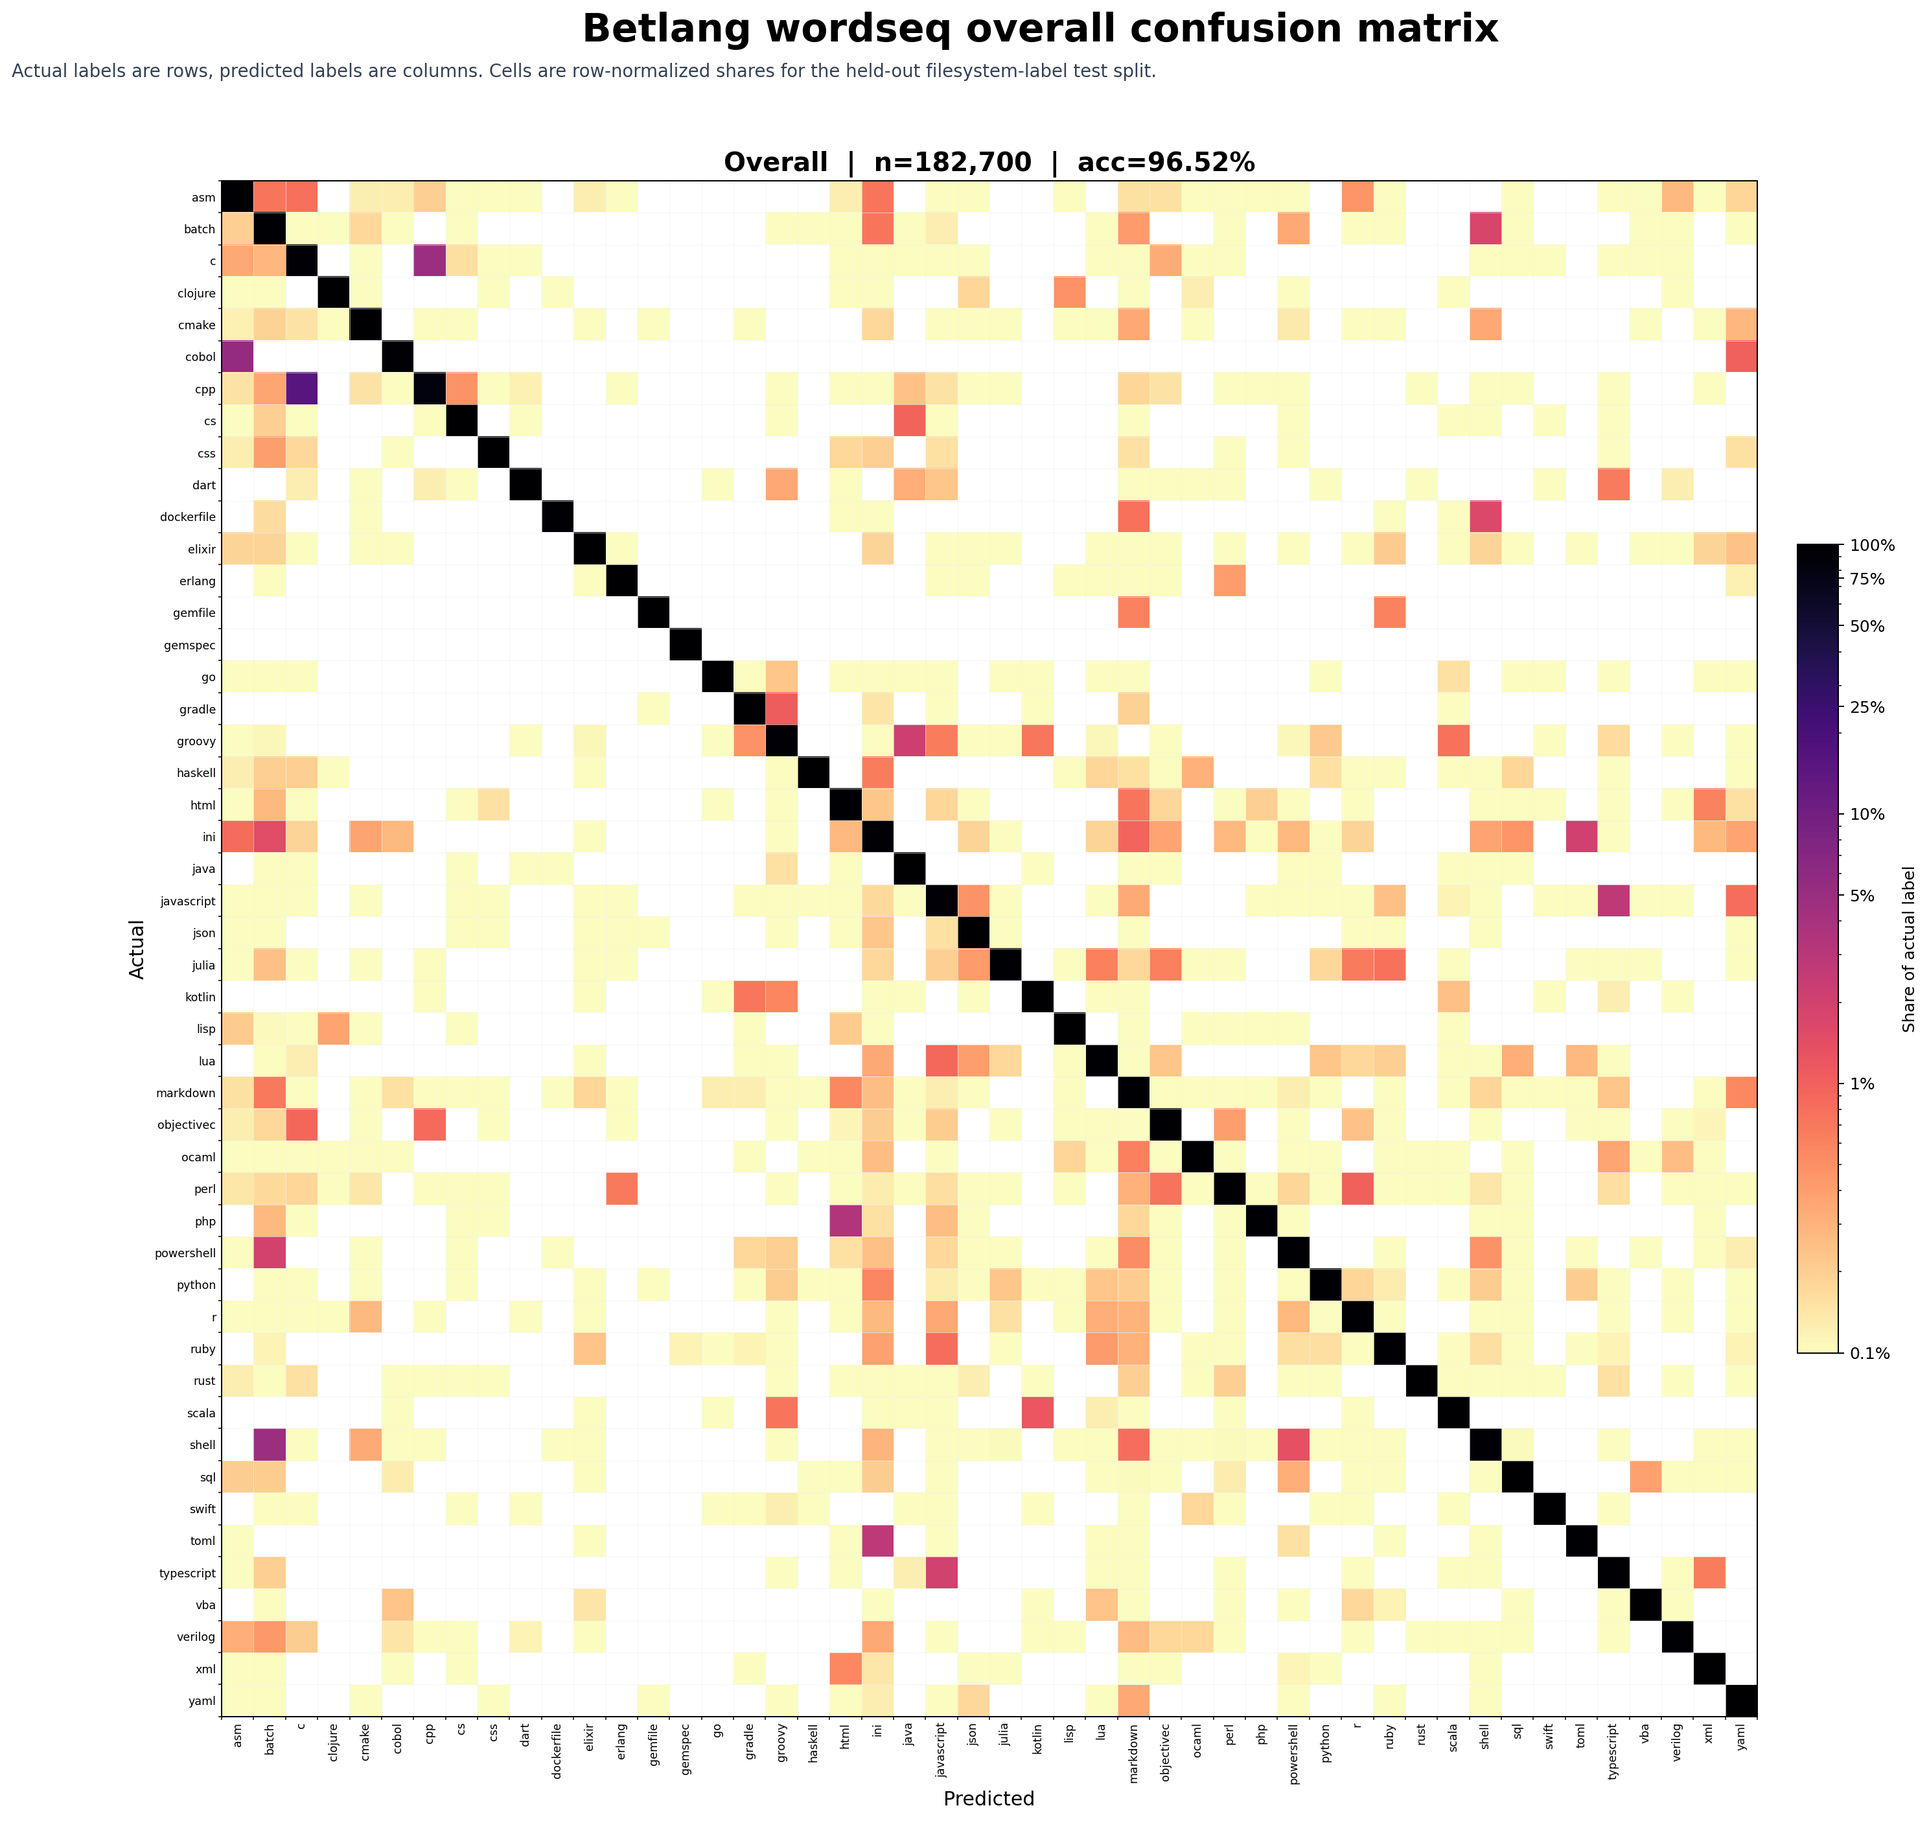
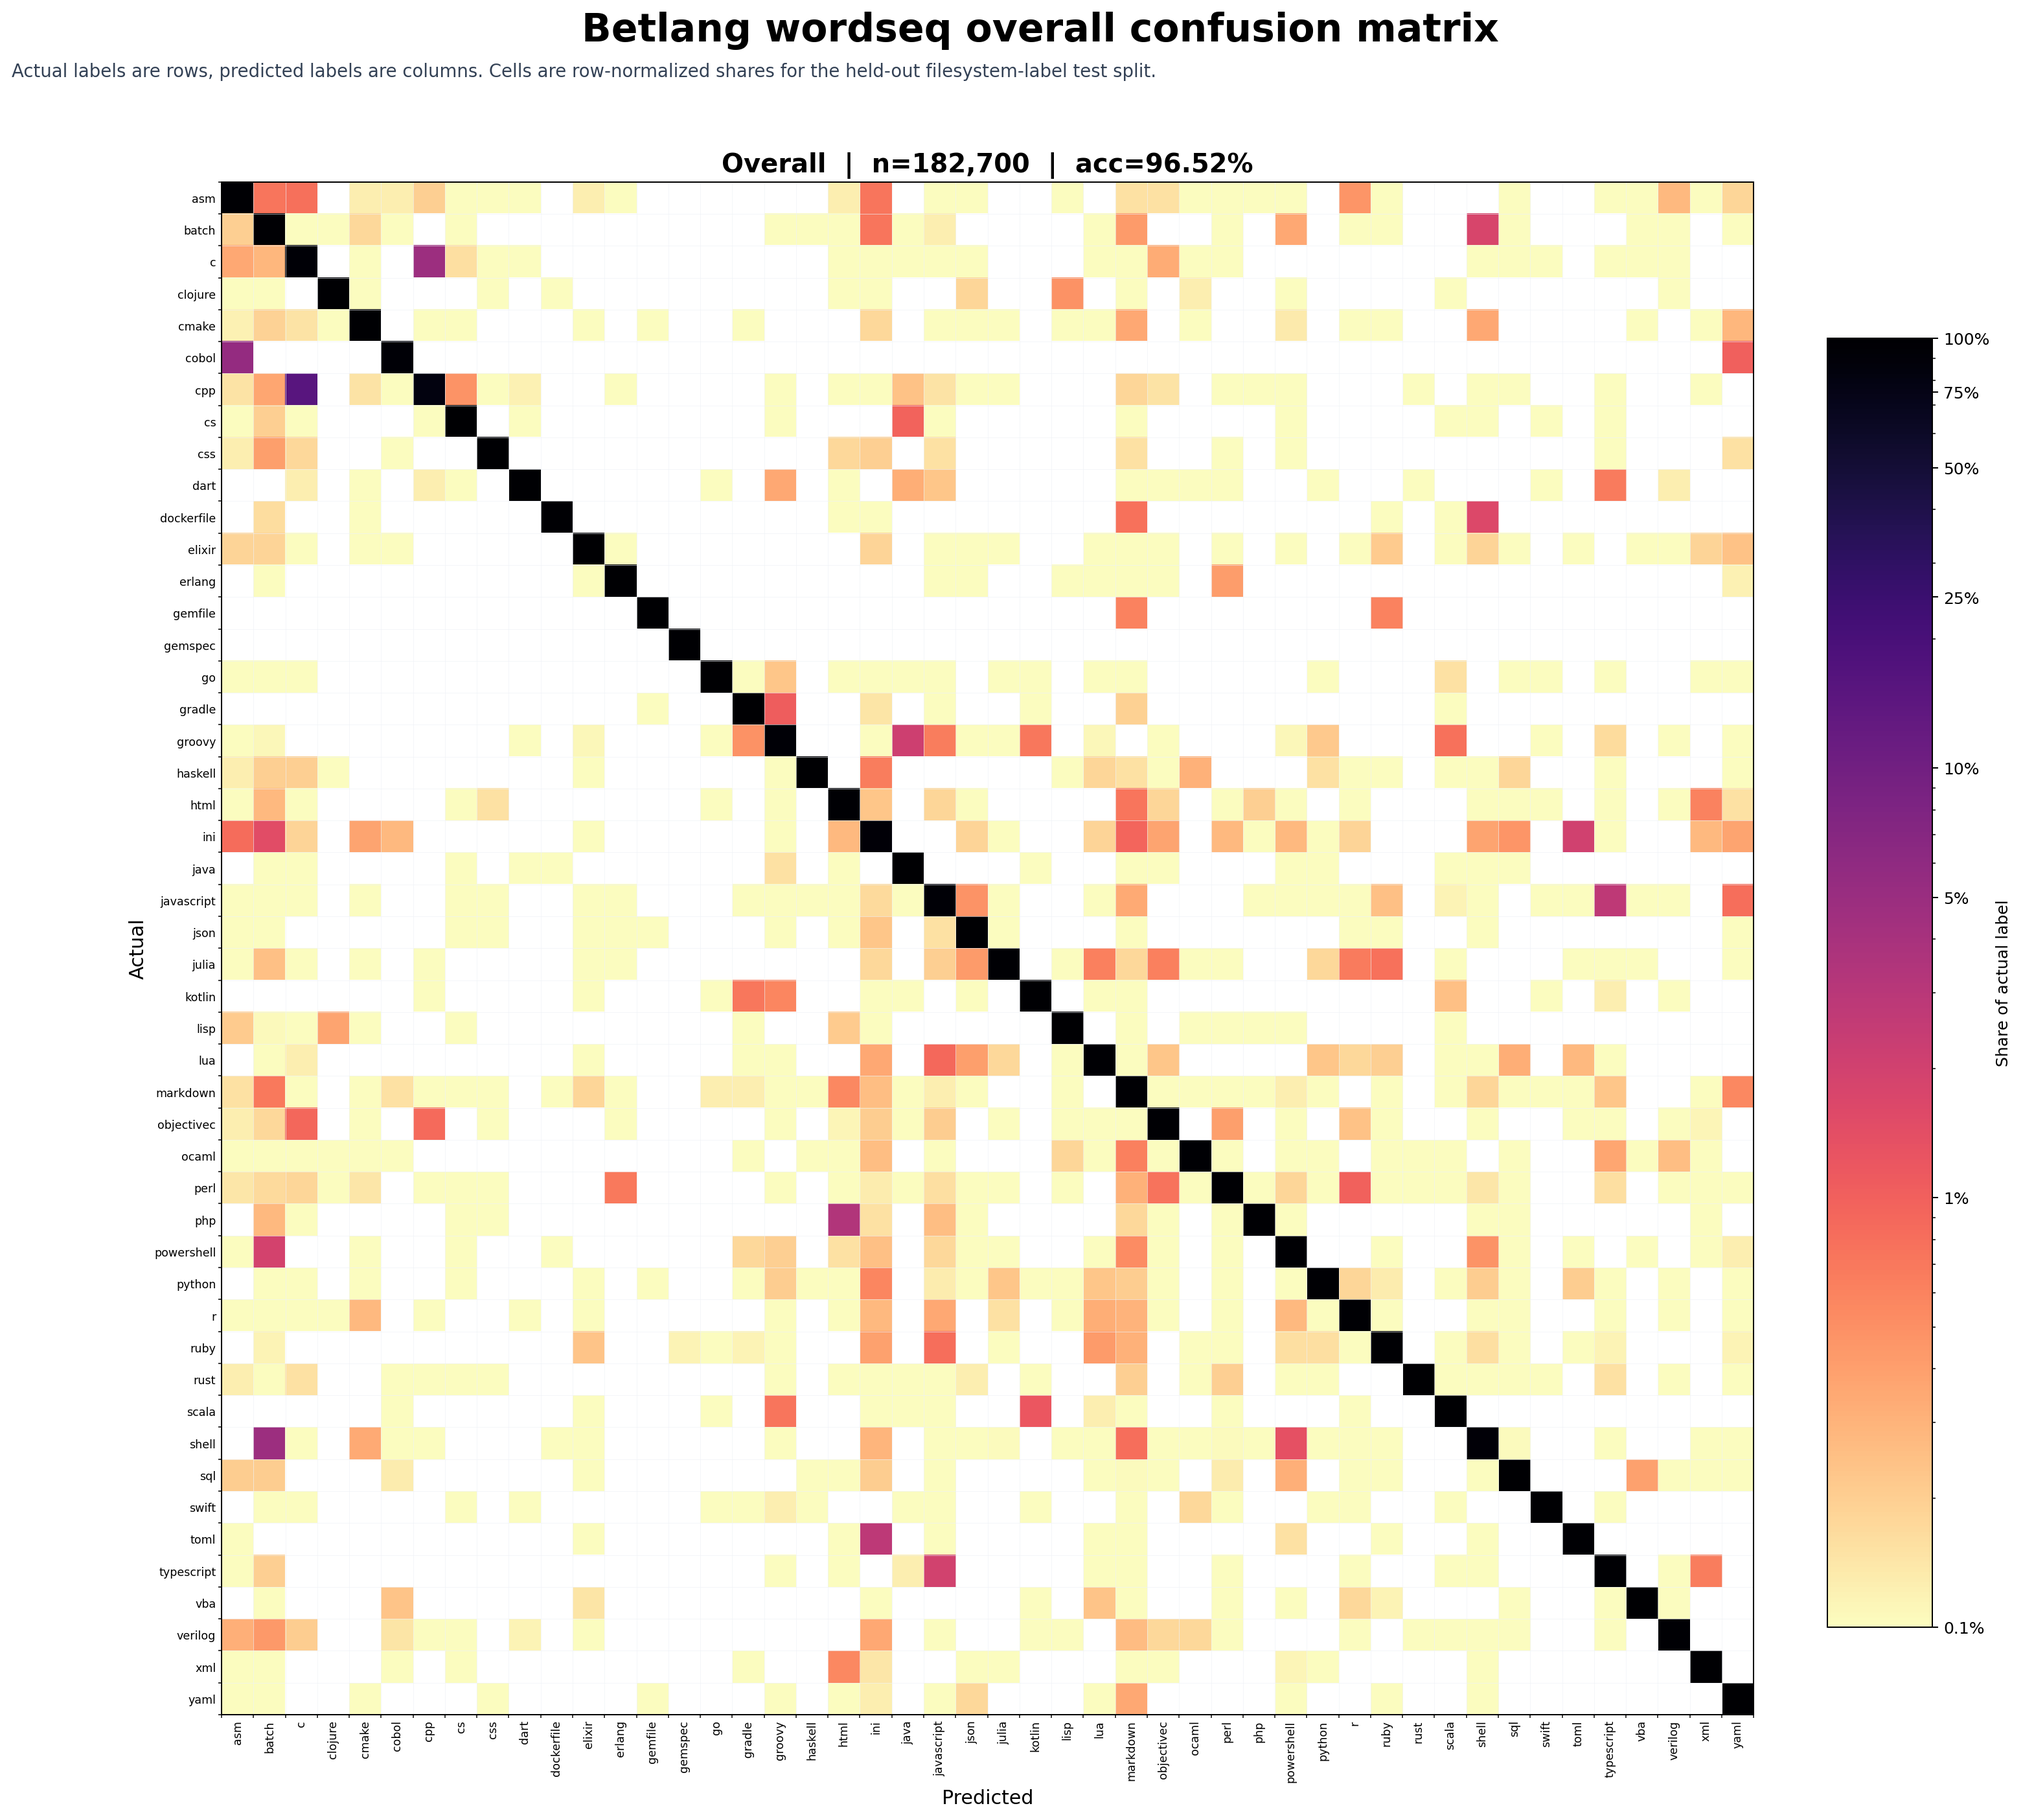
Restore dark scale layout

diff --git a/scripts/confusion_by_size.py b/scripts/confusion_by_size.py
@@ -647,11 +647,15 @@ def plot_confusion_panel(ax, title: str, matrix: np.ndarray, labels: list[str], 
     return image
 
 
-def configure_colorbar(fig, image, axes) -> None:
-    cbar = fig.colorbar(image, ax=axes, fraction=0.025, pad=0.025)
-    cbar.set_label("Share of actual label", fontsize=10)
-    cbar.set_ticks([0.001, 0.01, 0.05, 0.10, 0.25, 0.50, 0.75, 1.0])
-    cbar.set_ticklabels(["0.1%", "1%", "5%", "10%", "25%", "50%", "75%", "100%"])
+COLORBAR_TICKS = [0.001, 0.01, 0.05, 0.10, 0.25, 0.50, 0.75, 1.0]
+COLORBAR_TICK_LABELS = ["0.1%", "1%", "5%", "10%", "25%", "50%", "75%", "100%"]
+
+
+def configure_colorbar(fig, image, axes=None, *, cax=None, label: str = "Share of actual label") -> None:
+    cbar = fig.colorbar(image, ax=axes, cax=cax)
+    cbar.set_label(label, fontsize=10)
+    cbar.set_ticks(COLORBAR_TICKS)
+    cbar.set_ticklabels(COLORBAR_TICK_LABELS)
 
 
 def render_size_png(path: Path, matrices: list[np.ndarray], labels: list[str], fs_accuracy: float) -> None:
@@ -663,7 +667,6 @@ def render_size_png(path: Path, matrices: list[np.ndarray], labels: list[str], f
 
     for ax, bucket, matrix in zip(axes_flat[: len(BUCKETS)], BUCKETS, matrices):
         image = plot_confusion_panel(ax, bucket[0], matrix, labels, cmap)
-    axes_flat[len(BUCKETS)].axis("off")
 
     fig.suptitle("Betlang wordseq confusion matrices by file size", fontsize=24, weight="bold", y=0.995)
     fig.text(
@@ -684,7 +687,12 @@ def render_size_png(path: Path, matrices: list[np.ndarray], labels: list[str], f
     )
     fig.subplots_adjust(left=0.055, right=0.94, top=0.93, bottom=0.035, hspace=0.34, wspace=0.16)
     if image is not None:
-        configure_colorbar(fig, image, axes_flat[: len(BUCKETS)])
+        configure_colorbar(
+            fig,
+            image,
+            cax=axes_flat[len(BUCKETS)],
+            label="Share of actual label in bucket",
+        )
     fig.savefig(path, bbox_inches="tight")
     plt.close(fig)
 
@@ -712,8 +720,9 @@ def render_overall_png(path: Path, matrix: np.ndarray, labels: list[str], fs_acc
         fontsize=11,
         color="#334155",
     )
-    fig.subplots_adjust(left=0.11, right=0.88, top=0.925, bottom=0.12)
-    configure_colorbar(fig, image, ax)
+    fig.subplots_adjust(left=0.11, right=0.84, top=0.925, bottom=0.12)
+    scale_ax = fig.add_axes([0.875, 0.18, 0.05, 0.65])
+    configure_colorbar(fig, image, cax=scale_ax)
     fig.savefig(path, bbox_inches="tight")
     plt.close(fig)
 
